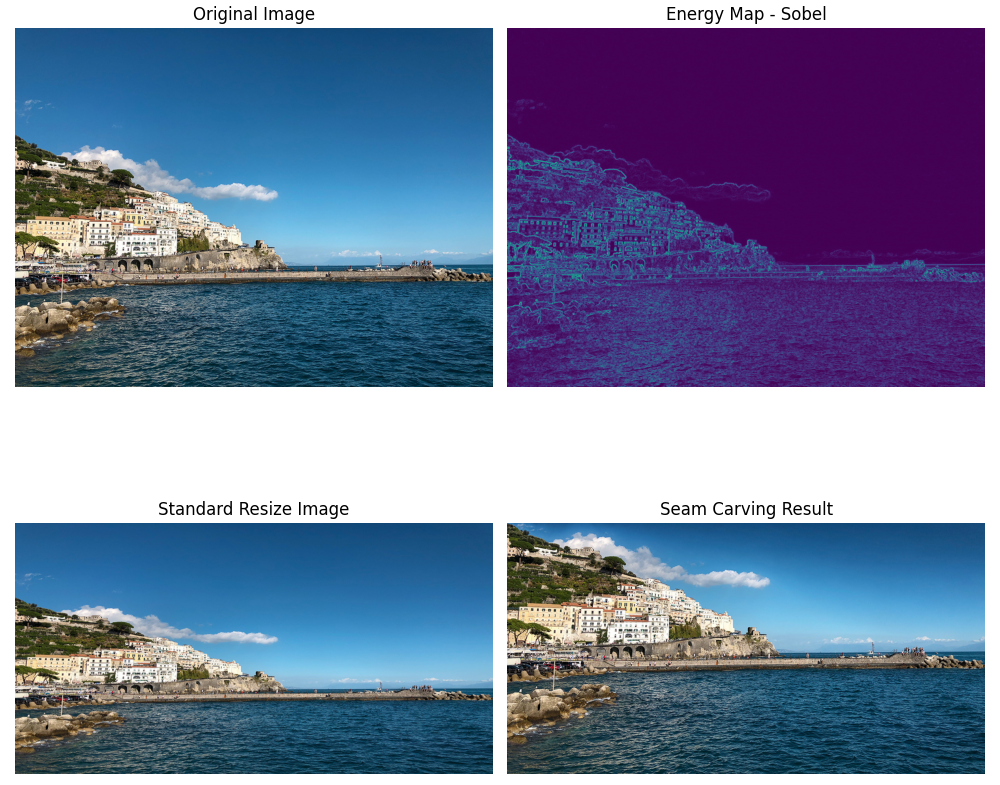
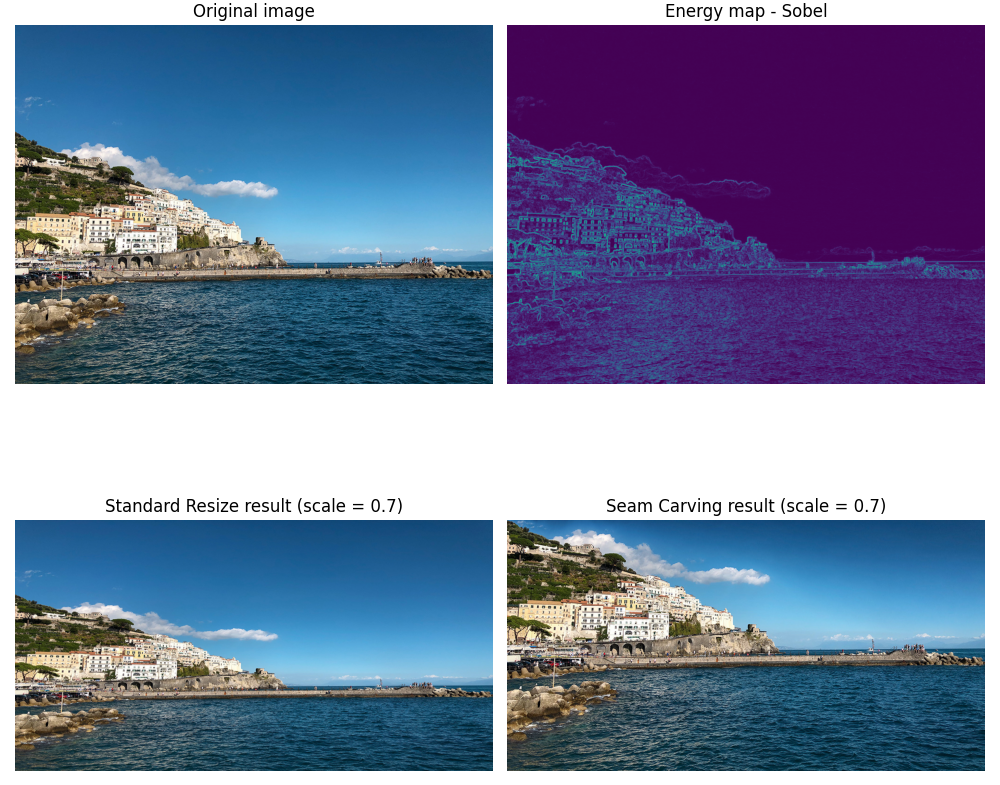
refactor(demos): crop demo image

diff --git a/src/sc.py b/src/sc.py
@@ -151,7 +151,7 @@ def standardResize(img, scale, seam_orientation):
 
     return std_resize_image
 
-def plotResult(img, out, std_resize_image, energyFunction):
+def plotResult(img, out, std_resize_image, energyFunction, scale):
     """
     Plot the original image with its mean energy, energy map and
     the resized image with its mean energy.
@@ -163,19 +163,19 @@ def plotResult(img, out, std_resize_image, energyFunction):
 
     plt.subplot(221)
     plt.imshow(img)
-    plt.title('Original Image')
+    plt.title('Original image')
 
     plt.subplot(222)
     plt.imshow(energyFunction(img))
-    plt.title('Energy Map - ' + (energyFunction.__name__).capitalize())
+    plt.title('Energy map - ' + (energyFunction.__name__).capitalize())
 
     plt.subplot(223)
     plt.imshow(std_resize_image)
-    plt.title('Standard Resize Image')
+    plt.title('Standard Resize result (scale = ' + str(scale) + ')')
 
     plt.subplot(224)
     plt.imshow(out)
-    plt.title('Seam Carving Result')
+    plt.title('Seam Carving result (scale = ' + str(scale) + ')')
 
     plt.tight_layout()
     plt.show()
@@ -286,7 +286,7 @@ if __name__ == '__main__':
 
             # Plot the result if requested by the user
             if args["plot"]:
-                plotResult(input_image, out, std_resize_image , energyFunction)
+                plotResult(input_image, out, std_resize_image , energyFunction, SCALE)
 
             # Calculate and save metrics if requested by the user
             if args["metrics"]:
@@ -318,7 +318,7 @@ if __name__ == '__main__':
 
         # Plot the result if requested by the user
         if args["plot"]:
-            plotResult(input_image, out, std_resize_image, energyFunction)
+            plotResult(input_image, out, std_resize_image, energyFunction, SCALE)
 
         # Calculate and save metrics if requested by the user
         if args["metrics"]:
